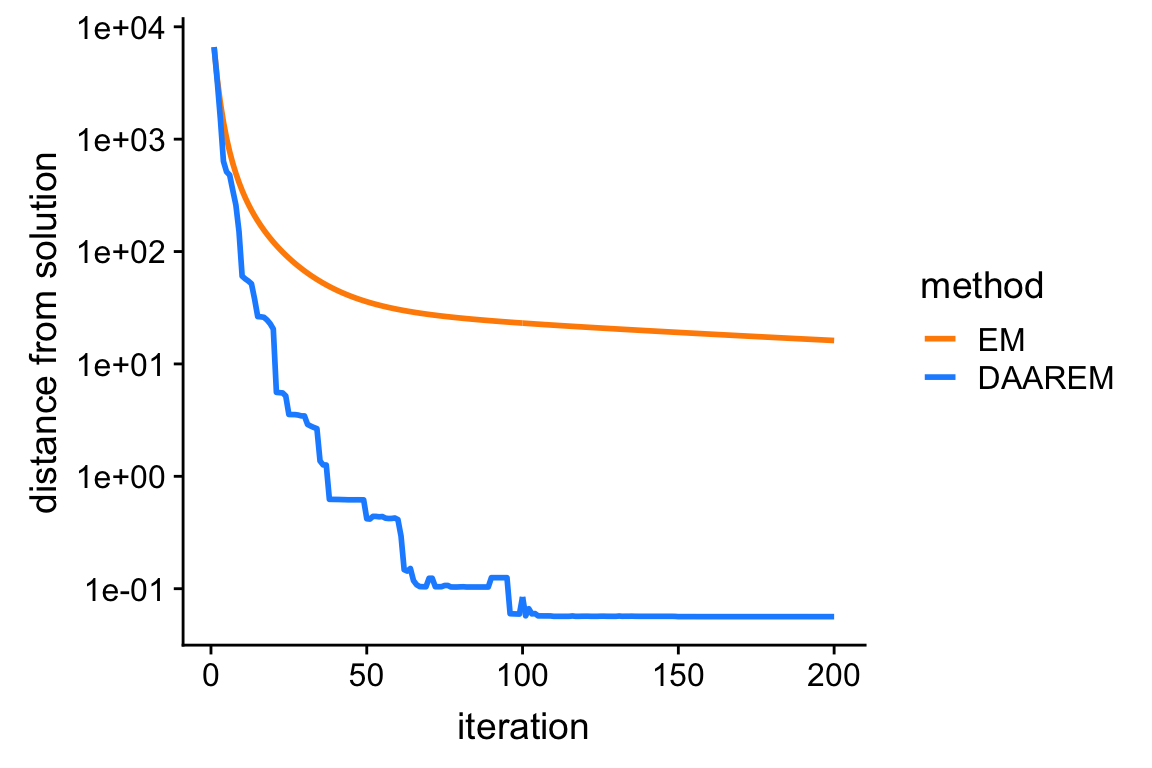
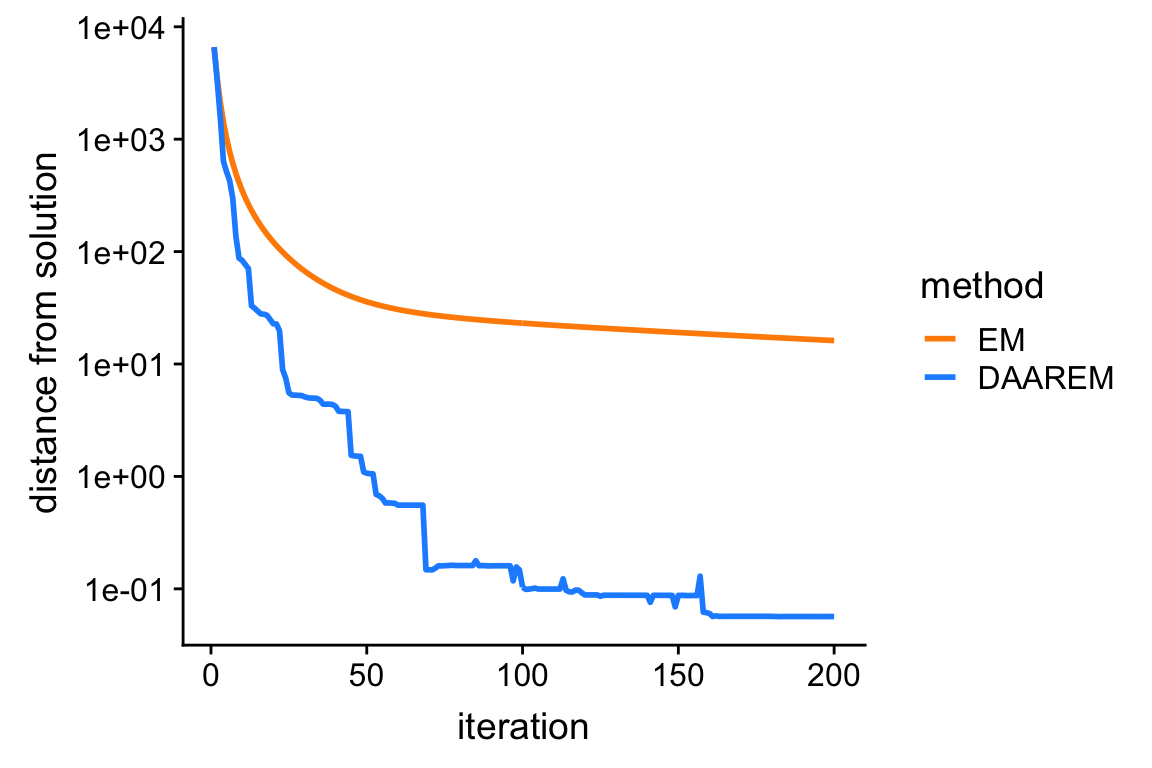
Made some revisions to the mixem analysis.

Changed region(s): [[0.2188, 0.375, 0.625, 0.8125], [0.1875, 0.2188, 0.2188, 0.375], [0.0625, 0.3125, 0.1562, 0.3438]]

diff --git a/docs/mixem.html b/docs/mixem.html
@@ -319,10 +319,10 @@ This reproducible <a href="http://rmarkdown.rstudio.com">R Markdown</a> analysis
 <div class="panel panel-default">
 <div class="panel-heading">
 <p class="panel-title">
-<a data-toggle="collapse" data-parent="#workflowr-checks" href="#strongRepositoryversionstrongahrefhttpsgithubcomstephenslabdaaremtree7048a42e210e8f853f0d7f5352dd283ab56ce09etargetblank7048a42a"> <span class="glyphicon glyphicon-ok text-success" aria-hidden="true"></span> <strong>Repository version:</strong> <a href="https://github.com/stephenslab/daarem/tree/7048a42e210e8f853f0d7f5352dd283ab56ce09e" target="_blank">7048a42</a> </a>
+<a data-toggle="collapse" data-parent="#workflowr-checks" href="#strongRepositoryversionstrongahrefhttpsgithubcomstephenslabdaaremtree4743aea5873609e4cf7362fef0674b70ad470648targetblank4743aeaa"> <span class="glyphicon glyphicon-ok text-success" aria-hidden="true"></span> <strong>Repository version:</strong> <a href="https://github.com/stephenslab/daarem/tree/4743aea5873609e4cf7362fef0674b70ad470648" target="_blank">4743aea</a> </a>
 </p>
 </div>
[2 lines of base64/hex data omitted]
 <div class="panel-body">
 <p>
 Great! You are using Git for version control. Tracking code development and connecting the code version to the results is critical for reproducibility. The version displayed above was the version of the Git repository at the time these results were generated. <br><br> Note that you need to be careful to ensure that all relevant files for the analysis have been committed to Git prior to generating the results (you can use <code>wflow_publish</code> or <code>wflow_git_commit</code>). workflowr only checks the R Markdown file, but you know if there are other scripts or data files that it depends on. Below is the status of the Git repository when the results were generated:
@@ -371,6 +371,40 @@ Message
 Rmd
 </td>
 <td>
+<a href="https://github.com/stephenslab/daarem/blob/4743aea5873609e4cf7362fef0674b70ad470648/analysis/mixem.Rmd" target="_blank">4743aea</a>
+</td>
+<td>
+Peter Carbonetto
+</td>
+<td>
+2019-06-04
+</td>
+<td>
+wflow_publish(“mixem.Rmd”)
+</td>
+</tr>
+<tr>
+<td>
+html
+</td>
+<td>
+<a href="https://rawcdn.githack.com/stephenslab/daarem/936cdbbd0013c1668665298eb40d0ae5e276e0fe/docs/mixem.html" target="_blank">936cdbb</a>
+</td>
+<td>
+Peter Carbonetto
+</td>
+<td>
+2019-06-04
+</td>
+<td>
+Built initial draft of “mixem” analysis.
+</td>
+</tr>
+<tr>
+<td>
+Rmd
+</td>
+<td>
 <a href="https://github.com/stephenslab/daarem/blob/7048a42e210e8f853f0d7f5352dd283ab56ce09e/analysis/mixem.Rmd" target="_blank">7048a42</a>
 </td>
 <td>
@@ -407,7 +441,7 @@ wflow_publish(“index.Rmd”)
 </div>
 </div>
 </div>
-<p>A small script to illustrate application of the DAAREM method for computing maximum-likelihood estimates of mixture proportions in a mixture model.</p>
+<p>Here we illustrate using <a href="https://doi.org/10.1080/10618600.2019.1594835">DAAREM method</a> to accelerate a very simple EM algorithm—he E and M steps are implemented in only three lines of R code—for computing maximum-likelihood estimates of mixture proportions in a mixture model.</p>
 <div id="set-up-environment" class="section level2">
 <h2>Set up environment</h2>
 <p>Load some packages and function definitions used in the example below.</p>
@@ -419,7 +453,7 @@ source(&quot;../code/mixem.R&quot;)</code></pre>
 </div>
 <div id="load-data-set" class="section level2">
 <h2>Load data set</h2>
-<p>TO DO: Add text here.</p>
+<p>Load the 100,000 x 100 conditional likelihood matrix computed from a simulated data set.</p>
 <pre class="r"><code>load(&quot;../data/mixdata.RData&quot;)
 n &lt;- nrow(L)
 m &lt;- ncol(L)
@@ -430,29 +464,30 @@ cat(sprintf(&quot;Loaded %d x %d data matrix.\n&quot;,n,m))
 </div>
 <div id="run-basic-em-updates" class="section level2">
 <h2>Run basic EM updates</h2>
-<p>Compute maximum-likelihood estimates of the mixture proportions by running 200 iterations of the EM updates.</p>
+<p>Compute maximum-likelihood estimates of the mixture proportions by running 200 iterations of the standard EM updates. Note that the E and M steps are very simple, and easy to implement in R; in particular, in function <code>mixem.update</code>, the E step is implemented in 2 lines of R code, and the M step requires only one more line of code.</p>
 <pre class="r"><code>cat(&quot;Fitting mixture model with basic EM method.\n&quot;)
 out &lt;- system.time(fit1 &lt;- mixem(L,x0,numiter = 200))
 f1  &lt;- mixobjective(L,fit1$x)
 cat(sprintf(&quot;Computation took %0.2f seconds.\n&quot;,out[&quot;elapsed&quot;]))
 cat(sprintf(&quot;Log-likelihood at EM estimate is %0.12f.\n&quot;,f1))
 # Fitting mixture model with basic EM method.
-# Computation took 9.18 seconds.
+# Computation took 10.96 seconds.
 # Log-likelihood at EM estimate is -59912.068371303445.</code></pre>
 </div>
 <div id="run-accelerated-em" class="section level2">
 <h2>Run accelerated EM</h2>
 <p>Re-run the EM updates, this time using DAAREM to accelerate convergence toward the solution.</p>
-<pre class="r"><code>out &lt;- system.time(fit2 &lt;- mixdaarem(L,x0,numiter = 200))
+<pre class="r"><code>out &lt;- system.time(fit2 &lt;- mixdaarem(L,x0,numiter = 200,order = 4))
 f2  &lt;- mixobjective(L,fit2$x)
 cat(sprintf(&quot;Computation took %0.2f seconds.\n&quot;,out[&quot;elapsed&quot;]))
 cat(sprintf(&quot;Objective value at DAAREM estimate is %0.12f.\n&quot;,f2))
-# Computation took 6.39 seconds.
-# Objective value at DAAREM estimate is -59895.960056733769.</code></pre>
+# Computation took 6.42 seconds.
+# Objective value at DAAREM estimate is -59895.960281994718.</code></pre>
+<p>Observe that the this second estimate has a much higher likelihood.</p>
 </div>
 <div id="plot-improvement-in-solution-over-time" class="section level2">
 <h2>Plot improvement in solution over time</h2>
-<p>TO DO: Add text here.</p>
+<p>This plot shows the improvement in the solution over time for the two co-ordinate ascent algorithms: the vertical axis (“distance to best solution”) shows the difference between the largest log-likelihood obtained, and the log-likelihood at the “true” solution (computed using <a href="https://github.com/stephenslab/mixsqp">mixsqp</a>).</p>
 <pre class="r"><code>f    &lt;- mixobjective(L,x)
 pdat &lt;-
   rbind(data.frame(iter = 1:200,dist = f - fit1$value,method = &quot;EM&quot;),
@@ -464,6 +499,44 @@ p &lt;- ggplot(pdat,aes(x = iter,y = dist,col = method)) +
   labs(x = &quot;iteration&quot;,y = &quot;distance from solution&quot;)
 print(p)</code></pre>
 <p><img src="figure/mixem.Rmd/plot-iter-vs-objective-1.png" width="576" style="display: block; margin: auto;" /></p>
+<p>
+<button type="button" class="btn btn-default btn-xs btn-workflowr btn-workflowr-fig" data-toggle="collapse" data-target="#fig-plot-iter-vs-objective-1">
+Past versions of plot-iter-vs-objective-1.png
+</button>
+</p>
+<div id="fig-plot-iter-vs-objective-1" class="collapse">
+<div class="table-responsive">
+<table class="table table-condensed table-hover">
+<thead>
+<tr>
+<th>
+Version
+</th>
+<th>
+Author
+</th>
+<th>
+Date
+</th>
+</tr>
+</thead>
+<tbody>
+<tr>
+<td>
+<a href="https://github.com/stephenslab/daarem/blob/936cdbbd0013c1668665298eb40d0ae5e276e0fe/docs/figure/mixem.Rmd/plot-iter-vs-objective-1.png" target="_blank">936cdbb</a>
+</td>
+<td>
+Peter Carbonetto
+</td>
+<td>
+2019-06-04
+</td>
+</tr>
+</tbody>
+</table>
+</div>
+</div>
+<p>From this plot, we see that the accelerated gets much closer to the solution, although it “plateaus” after about 100 iterations, so it never quite converges to the solution. Nonetheless, it is much improved over the basic EM algorithm.</p>
 <br>
 <p>
 <button type="button" class="btn btn-default btn-workflowr btn-workflowr-sessioninfo" data-toggle="collapse" data-target="#workflowr-sessioninfo" style="display: block;">
